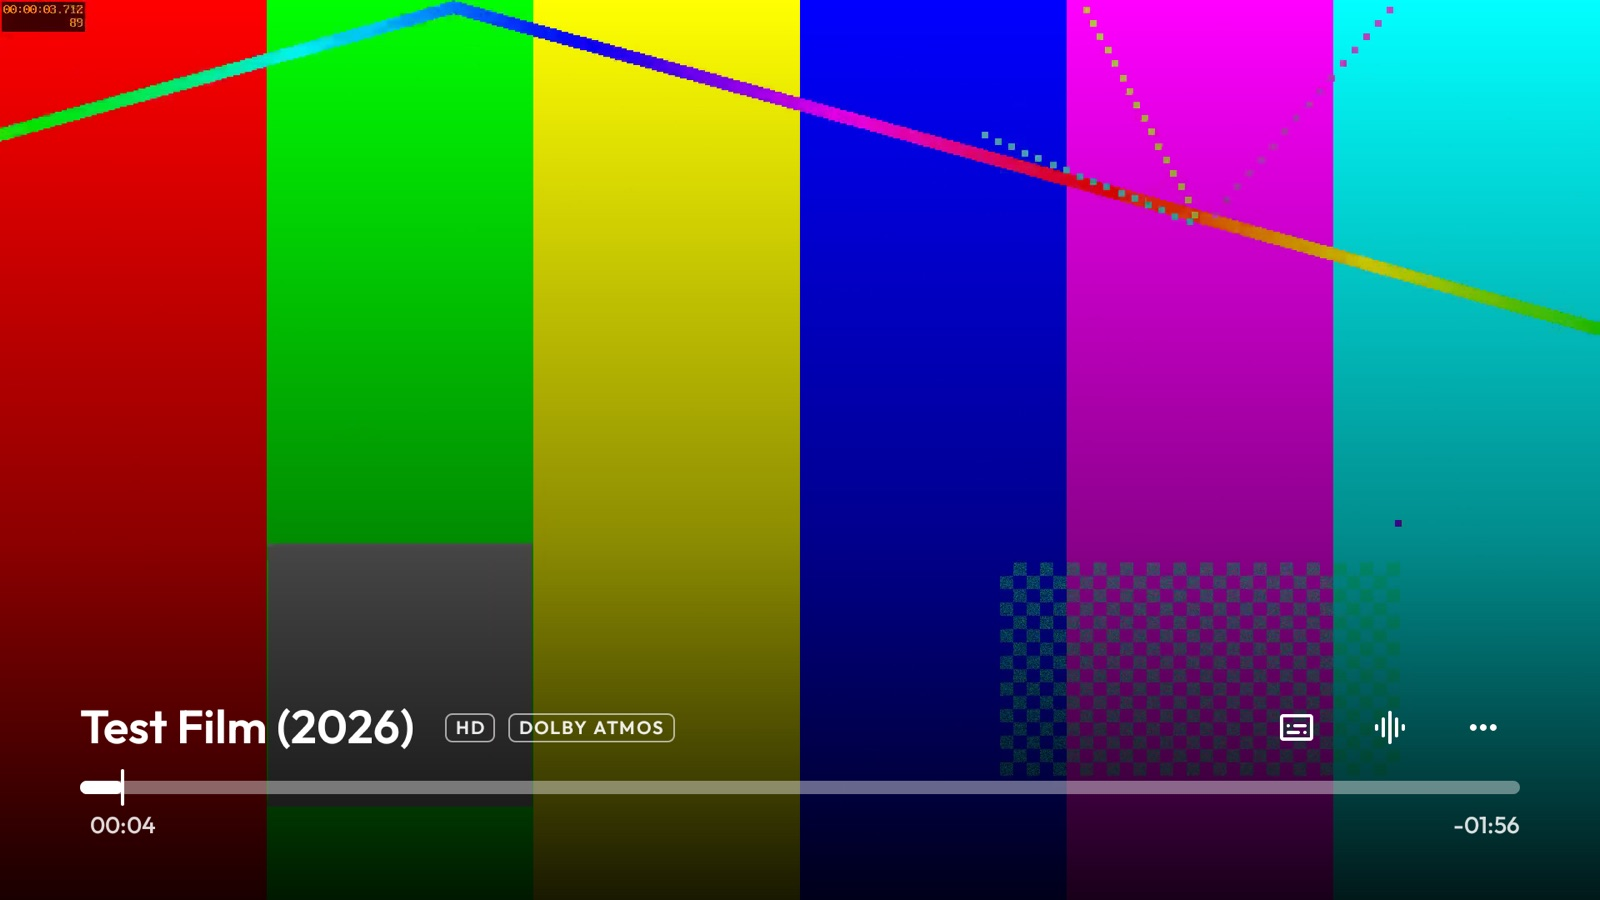
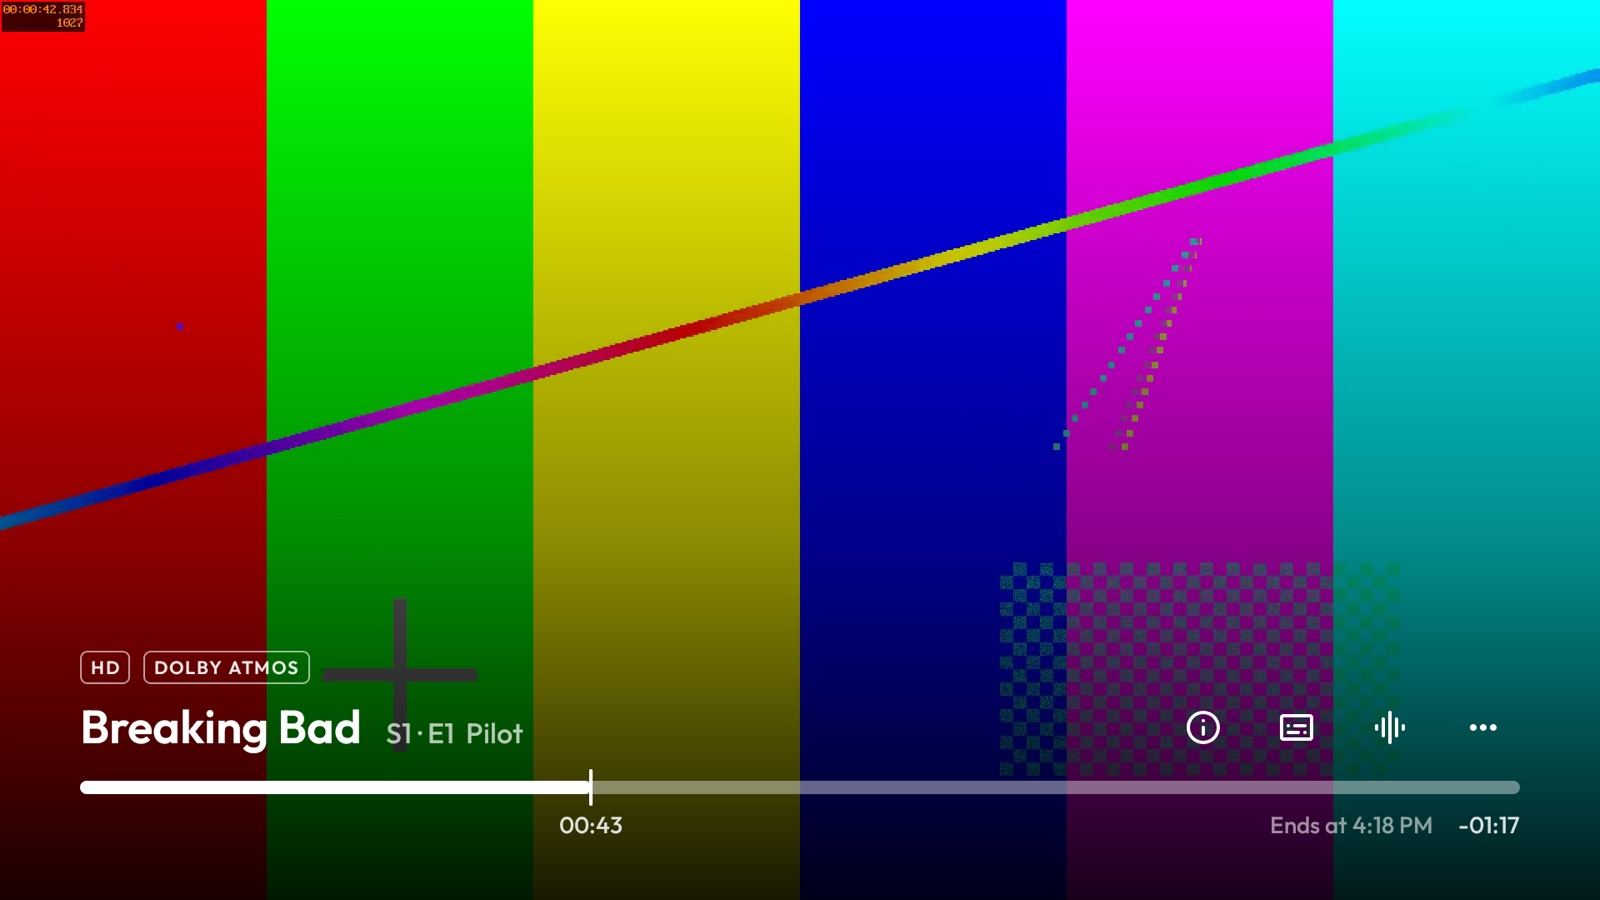
README: describe this fork's features, with new screenshots
Covers Atmos detection, the single blackout per frame-rate switch, About,
remembered subtitle and audio choices, skip intro/recap/credits, chapters,
the end time and the tvOS-style layout, plus a Privacy section listing
exactly what is sent to Cinemeta and TheIntroDB. Screenshots are from the
Android TV emulator with a test pattern; About shows Big Buck Bunny
(CC BY, Blender Foundation).

diff --git a/README.md b/README.md
@@ -1,33 +1,51 @@
 # Enhanced Just Player
 
-A fork of [Just (Video) Player](https://github.com/moneytoo/Player) by [moneytoo](https://github.com/moneytoo), tuned for Android TV boxes such as the NVIDIA SHIELD. It plays the best audio track by itself and has a tvOS-style remote-friendly interface. Everything else is Just Player.
+A fork of [Just (Video) Player](https://github.com/moneytoo/Player) by [moneytoo](https://github.com/moneytoo), tuned for Android TV boxes such as the NVIDIA SHIELD and for use as [Stremio](https://www.stremio.com)'s external player. It plays the best audio track by itself, knows what it is playing, and has a remote-friendly interface in the style of tvOS. Everything else is Just Player.
 
 <img src="docs/tv/1-controls.jpg" width="806">
 
-<img src="docs/tv/2-audio.jpg" width="400"> <img src="docs/tv/3-info.jpg" width="400">
+<img src="docs/tv/2-audio.jpg" width="400"> <img src="docs/tv/3-about.jpg" width="400">
+<img src="docs/tv/5-chapters.jpg" width="400"> <img src="docs/tv/6-info.jpg" width="400">
+
+<sub>Screenshots from the Android TV emulator with a test pattern; the About panel shows [Big Buck Bunny](https://peach.blender.org) (CC BY, Blender Foundation).</sub>
 
 ## What's different
 
-**The best audio track, automatically.** Players normally start the track the file marks as default, which is often a stereo or audio description track. Enhanced Just Player picks, among the tracks in your language:
+### Sound and picture
 
-1. object audio first: Dolby Atmos (TrueHD or DD+) and DTS:X,
-2. then lossless: TrueHD, DTS-HD MA, FLAC, PCM,
-3. then the most channels.
+- **The best audio track, automatically.** Players normally start the track a file marks as default, often a stereo or audio description track. Among the tracks in your language this player picks object audio first (Dolby Atmos, DTS:X), then lossless (TrueHD, DTS-HD MA), then the most channels. Commentary and audio description are never picked on their own, and a different language is never "better", only a choice. A track you choose yourself always wins.
+- **Dolby Atmos detection.** Matroska says "E-AC3" or "TrueHD" without saying whether it carries Atmos; the player reads the first passthrough frames (E-AC3 JOC, TrueHD's 16-channel substream) the way a receiver does, so Atmos shows up in the badges and menus.
+- **One blackout when a film starts and one when it ends.** With frame-rate matching on, the rate is read from the Matroska header with a single small request and the TV switches before playback begins, instead of switching after video and audio have started and making the TV and soundbar resync. On exit the mode request is released before the window closes.
 
-Commentary and audio description tracks are never picked on their own. A track you choose yourself always wins.
+### Knows what it is playing
 
-**A TV interface in the style of tvOS.**
+Stremio hands an external player only a link. For streams from the [Comet](https://github.com/g0ldyy/comet) addon the link names the title, its IMDb id and the episode, and the player uses that:
 
-- One line at the bottom: the title, format badges (4K, Dolby Vision, Dolby Atmos) and a warning only when a better audio track exists. Subtitles, Audio and More sit on the right.
-- A thin timeline with the elapsed time under the playhead and the time remaining at the end. OK plays and pauses, Left and Right seek.
-- Menus open above their button. Audio lists every track with its codec, marks the best one and ticks the one playing; More holds Info (video, audio and subtitle details, including passthrough and the display refresh rate), aspect ratio, picture-in-picture, open file and settings.
-- Back steps out one level at a time. The controls stay up while a menu is open, and subtitles move above the controls while they are shown.
+- **Title and episode** in the controls, e.g. "Breaking Bad  S1 · E1  Pilot".
+- **About**: poster, year, runtime, IMDb rating, genres, synopsis, cast and director from [Cinemeta](https://v3-cinemeta.strem.io), Stremio's own metadata service. Only the IMDb id is sent.
+- **Remembered choices.** Subtitle and audio choices are remembered per show, and your last subtitle choice applies to anything new, so subtitles stop switching themselves off. Kept on the device only.
+- **Skip intro, recap and credits.** From the file's chapters when they are named for it, otherwise from [TheIntroDB](https://theintrodb.org), a crowd-sourced database looked up by IMDb id, season, episode and duration. The online lookup can be turned off in Player settings.
+
+  <img src="docs/tv/4-skip.jpg" width="400">
+
+### The interface, after tvOS
+
+- One line at the bottom: the title and episode, format badges above it (4K, Dolby Vision · Atmos), and a warning only when a better audio track exists in your language. About, Subtitles, Audio and More sit on the right.
+- A thin timeline split at chapter starts, the elapsed time under the playhead, and "Ends at 22:41" with the time left at the end. OK plays and pauses, Left and Right seek.
+- Menus open above their button and keep the controls up while open. More holds Info (video, audio, passthrough, display refresh rate and subtitles), Chapters, aspect ratio, picture-in-picture, open file and settings. Back steps out one level at a time; Up from the top row closes the controls.
+- The controls stay up for 7 seconds when a video starts, so the title is readable once the TV has switched modes. Dark glass menus that do not glare when the TV is in HDR.
 
 It installs next to Just Player as its own app (`io.github.royalgit.enhancedjustplayer`).
 
 ## Using it with Stremio
 
 In Stremio, set Settings → Playback → Default player to **External**, then choose **Enhanced Just Player** and **Always** when Android asks. Stremio keeps your watch progress: the player hands the position back when you exit. In the player, turn on More → Player settings → **Auto frame rate matching** so 24p films play at 24 Hz.
+
+Title, About, remembered choices and skip timestamps need a link that identifies the title, which Comet's do. With other addons the player still works as a plain player.
+
+## Privacy
+
+The player itself sends nothing anywhere except two lookups for streams that identify themselves: the IMDb id to Cinemeta for About, and the IMDb id, season, episode and duration to TheIntroDB for skip timestamps (switchable off). Stream links, which can carry debrid keys, are never logged or sent.
 
 ## Building
 
@@ -47,6 +65,7 @@ Leave out `-PabiFilter` for a universal APK.
 - [Just Player](https://github.com/moneytoo/Player) is released into the public domain ([Unlicense](LICENSE)); the changes in this fork are too.
 - [Outfit](https://fonts.google.com/specimen/Outfit) font: SIL Open Font License 1.1, see [FONT-LICENSE-OFL.txt](FONT-LICENSE-OFL.txt).
 - Icons: [Material Symbols Rounded](https://github.com/google/material-design-icons), Apache License 2.0.
+- Title details from [Cinemeta](https://v3-cinemeta.strem.io); skip timestamps from [TheIntroDB](https://theintrodb.org) contributors.
 
 ---
 
